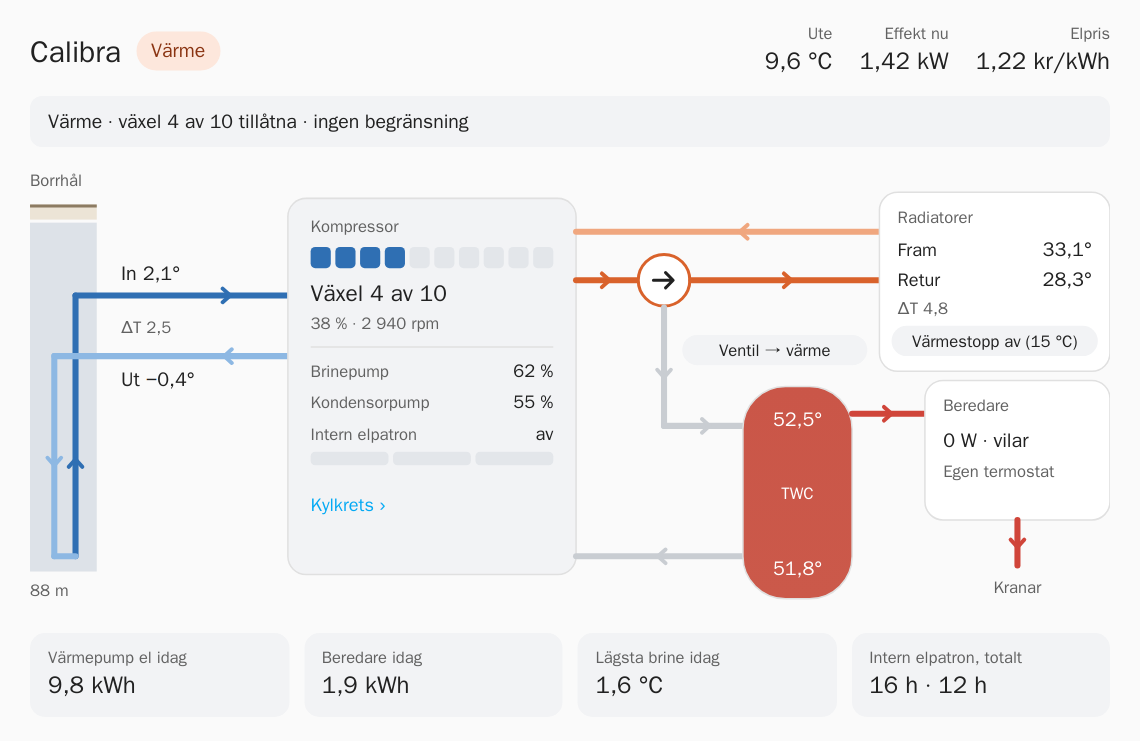
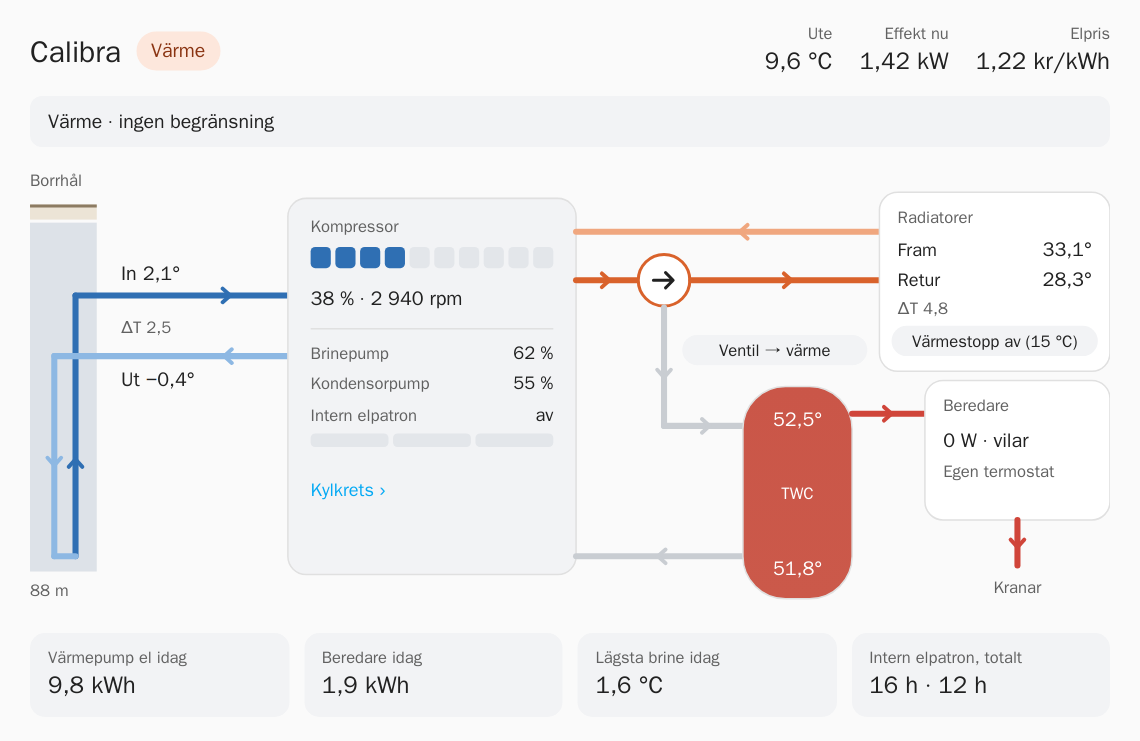
Drop the gear text; the bar shows it (0.2.1)

diff --git a/dist/calibra-card.js b/dist/calibra-card.js
@@ -9,7 +9,7 @@
  * MIT License
  */
 
-const CARD_VERSION = "0.2.0";
+const CARD_VERSION = "0.2.1";
 
 // Entity defaults: the thermiagenesis entity ids. Anything else (power meter, price, the
 // valve, the water heater) is site specific and only shown when configured.
@@ -59,18 +59,17 @@ const COLORS = {
 const T = {
   sv: {
     title: "Värmepump", borehole: "Borrhål", in: "In", out: "Ut", compressor: "Kompressor",
-    gearOf: (g, m) => `Växel ${g} av ${m}`, gearOfAllowed: (g, m) => `Växel ${g} av ${m} tillåtna`,
     stopped: "Står still", brinePump: "Brinepump", condPump: "Kondensorpump", immersion: "Intern elpatron", immersionShort: "Elpatron",
     off: "av", on: "på", step: (s) => `steg ${s}`, stepOf: (s, n) => `steg ${s} av ${n}`, circuit: "Kylkrets ›", radiators: "Radiatorer", supply: "Fram", ret: "Retur",
     valve: "Ventil →", toHeat: "värme", toTap: "varmvatten", heater: "Beredare", heaterSub: "Egen termostat",
     heaterIdle: "vilar", heaterOn: "värmer", taps: "Kranar", outdoor: "Ute", power: "Effekt nu", price: "Elpris",
-    heatStopOn: (t) => `Värmestopp på${t}`, heatStopOff: (t) => `Värmestopp av${t}`, limit: (t) => ` (${t})`, gearShort: (g, m) => `Växel ${g}/${m}`,
+    heatStopOn: (t) => `Värmestopp på${t}`, heatStopOff: (t) => `Värmestopp av${t}`, limit: (t) => ` (${t})`,
     pumpToday: "Värmepump el idag", heaterToday: "Beredare idag", brineMin: "Lägsta brine idag", immHours: "Intern elpatron, totalt",
     back: "‹ Tillbaka", hp: "Högtryck (kondensor)", lp: "Lågtryck (förångare)", bubble: "Bubbelpunkt", dew: "Daggpunkt",
     compHours: "Kompressor, drifttid", tapHours: "Varmvatten, drifttid", gearsHeat: "Tillåtna växlar, värme",
     gearsTap: "Tillåtna växlar, varmvatten", blocked: "Tillfälligt blockerad", yes: "Ja", no: "Nej",
     alarm: "Samlingslarm", noAlarm: "Inget", active: "Aktivt", phaseAlarm: "Fasdetektering", ok: "OK", fault: "Fel",
-    whyDemand: (d, g, m, lim) => `${d} · växel ${g} av ${m} tillåtna${lim ? "" : " · ingen begränsning"}`,
+    whyDemand: (d, lim) => `${d}${lim ? "" : " · ingen begränsning"}`,
     whyIdle: (i) => `Inget behov just nu${i}`, integral: (v) => ` · gradminuter ${v}`,
     whyHeatStop: (o, s) => `Värmestopp: ute ${o} är över gränsen ${s}. Radiatorerna får ingen värme, bara varmvatten laddas vid behov.`,
     whyBlocked: "Kompressorn är tillfälligt blockerad.", whyImmersion: "Intern elpatron har gått in.",
@@ -81,18 +80,17 @@ const T = {
   },
   en: {
     title: "Heat pump", borehole: "Borehole", in: "In", out: "Out", compressor: "Compressor",
-    gearOf: (g, m) => `Gear ${g} of ${m}`, gearOfAllowed: (g, m) => `Gear ${g} of ${m} allowed`,
     stopped: "Stopped", brinePump: "Brine pump", condPump: "Condenser pump", immersion: "Immersion heater", immersionShort: "Immersion",
     off: "off", on: "on", step: (s) => `step ${s}`, stepOf: (s, n) => `step ${s} of ${n}`, circuit: "Refrigerant ›", radiators: "Radiators", supply: "Supply", ret: "Return",
     valve: "Valve →", toHeat: "heating", toTap: "hot water", heater: "Water heater", heaterSub: "Own thermostat",
     heaterIdle: "idle", heaterOn: "heating", taps: "Taps", outdoor: "Outdoor", power: "Power", price: "Price",
-    heatStopOn: (t) => `Heating stop on${t}`, heatStopOff: (t) => `Heating stop off${t}`, limit: (t) => ` (${t})`, gearShort: (g, m) => `Gear ${g}/${m}`,
+    heatStopOn: (t) => `Heating stop on${t}`, heatStopOff: (t) => `Heating stop off${t}`, limit: (t) => ` (${t})`,
     pumpToday: "Heat pump today", heaterToday: "Water heater today", brineMin: "Lowest brine today", immHours: "Immersion heater, total",
     back: "‹ Back", hp: "High pressure (condenser)", lp: "Low pressure (evaporator)", bubble: "Bubble point", dew: "Dew point",
     compHours: "Compressor hours", tapHours: "Hot water hours", gearsHeat: "Allowed gears, heating",
     gearsTap: "Allowed gears, hot water", blocked: "Temporarily blocked", yes: "Yes", no: "No",
     alarm: "Sum alarm", noAlarm: "None", active: "Active", phaseAlarm: "Phase detection", ok: "OK", fault: "Fault",
-    whyDemand: (d, g, m, lim) => `${d} · gear ${g} of ${m} allowed${lim ? "" : " · no limit"}`,
+    whyDemand: (d, lim) => `${d}${lim ? "" : " · no limit"}`,
     whyIdle: (i) => `No demand right now${i}`, integral: (v) => ` · degree minutes ${v}`,
     whyHeatStop: (o, s) => `Heating stop: outdoor ${o} is above the limit ${s}. Only hot water is made when needed.`,
     whyBlocked: "The compressor is temporarily blocked.", whyImmersion: "The immersion heater is on.",
@@ -243,7 +241,7 @@ class CalibraCard extends HTMLElement {
     let why, tone = "neutral";
     if (alarm) { why = t.whyAlarm; tone = "alert"; }
     else if (heatStop && !running) { why = t.whyHeatStop(fmt(outdoor, 1, "°C", lang), fmt(stopT, 0, "°C", lang)); tone = "stop"; }
-    else if (running) why = t.whyDemand(demand, gear, maxAllowed, limited || notices.length);
+    else if (running) why = t.whyDemand(demand, limited || notices.length);
     else why = t.whyIdle(n("integral") !== null ? t.integral(fmt(n("integral"), 0, "", lang)) : "");
     const extra = [...notices];
     if (blocked) extra.push(t.whyBlocked);
@@ -276,9 +274,9 @@ class CalibraCard extends HTMLElement {
       brineIn: fmt(n("brine_in"), 1, "°", lang), brineOut: fmt(n("brine_out"), 1, "°", lang),
       brineDt: n("brine_in") !== null && n("brine_out") !== null ? fmt(n("brine_in") - n("brine_out"), 1, "", lang) : "–",
       brineOn, heatOn, hwOn, valveTap, segs, limited: limited || notices.length > 0,
-      gearShort: running ? t.gearShort(gear, maxAllowed) : t.stopped,
-      gearText: running ? (limited ? t.gearOfAllowed(gear, maxAllowed) : t.gearOf(gear, gears)) : t.stopped,
-      speed: `${fmt(n("compressor_pct"), 0, "%", lang)} · ${fmt(n("compressor_rpm"), 0, "rpm", lang)}`,
+      // The gear bar shows used and allowed gears; the text line only carries speed.
+      compText: running ? `${fmt(n("compressor_pct"), 0, "%", lang)} · ${fmt(n("compressor_rpm"), 0, "rpm", lang)}` : t.stopped,
+      compShort: running ? fmt(n("compressor_pct"), 0, "%", lang) : t.stopped,
       brinePump: fmt(n("brine_pump"), 0, "%", lang), condPump: fmt(n("condenser_pump"), 0, "%", lang),
       immersion: e.immersion ? this._immersionModel(immersion) : null,
       supply: heatOn || heatStop ? fmt(n("condenser_out"), 1, "°", lang) : fmt(n("condenser_out"), 1, "°", lang),
@@ -390,17 +388,16 @@ class CalibraCard extends HTMLElement {
     <rect x="170" y="56" width="190" height="248" rx="12" class="box hpbox"/>
     ${txt(185, 78, t.compressor, "lbl")}
     ${segs}
-    ${txt(185, 124, m.gearText, "val big full", e.gear)}${txt(185, 128, m.gearShort, "val big short", e.gear)}
-    ${txt(185, 142, m.speed, "lbl opt", e.compressor_pct)}
-    <line x1="185" y1="154" x2="345" y2="154" class="div opt"/>
-    ${hpRows.map(([l, v, ent], i) => `${txt(185, 174 + i * 20, l, "lbl opt")}${txt(345, 174 + i * 20, v, "sm opt", ent, "end")}`).join("")}
-    ${m.immersion ? `<g class="opt">${m.immersion.on ? `<rect x="179" y="201" width="172" height="38" rx="6" fill="var(--calibra-warn-bg, #fff4dc)"/>` : ""}
-      ${txt(185, 215, t.immersion, m.immersion.on ? "sm warn" : "lbl")}${txt(345, 215, m.immersion.text, m.immersion.on ? "sm warn strong" : "sm", e.immersion, "end")}
-      ${immBar(185, 223, 9)}</g>
+    ${txt(185, 126, m.compText, "val full", e.compressor_pct)}${txt(185, 130, m.compShort, "val big short", e.compressor_pct)}
+    <line x1="185" y1="142" x2="345" y2="142" class="div opt"/>
+    ${hpRows.map(([l, v, ent], i) => `${txt(185, 162 + i * 20, l, "lbl opt")}${txt(345, 162 + i * 20, v, "sm opt", ent, "end")}`).join("")}
+    ${m.immersion ? `<g class="opt">${m.immersion.on ? `<rect x="179" y="189" width="172" height="38" rx="6" fill="var(--calibra-warn-bg, #fff4dc)"/>` : ""}
+      ${txt(185, 203, t.immersion, m.immersion.on ? "sm warn" : "lbl")}${txt(345, 203, m.immersion.text, m.immersion.on ? "sm warn strong" : "sm", e.immersion, "end")}
+      ${immBar(185, 211, 9)}</g>
     <g class="short imm-compact">${m.immersion.on ? `<rect x="179" y="162" width="172" height="46" rx="6" fill="var(--calibra-warn-bg, #fff4dc)"/>` : ""}
       ${txt(185, 183, t.immersionShort, m.immersion.on ? "lbl warn" : "lbl")}${txt(345, 183, m.immersion.short, m.immersion.on ? "sm warn strong" : "sm", e.immersion, "end")}
       ${immBar(185, 192, 10)}</g>` : ""}
-    ${txt(185, 262, t.circuit, "link")}
+    ${txt(185, 252, t.circuit, "link")}
   </g>
 
   ${pipe(360, 78, 560, 78, col.heatRet)}

diff --git a/test/card.test.js b/test/card.test.js
@@ -67,7 +67,9 @@ test("heating: radiator branch live, valve points right, demand translated", () 
   assert.equal(m.heatOn, true);
   assert.equal(m.hwOn, false);
   assert.equal(m.chip.text, "Värme");
-  assert.equal(m.gearText, "Växel 4 av 10");
+  assert.match(m.compText, /^38 % · 2.940 rpm$/);
+  assert.equal(m.why, "Värme · ingen begränsning");
+  assert.ok(!html(c).includes("Växel"));
   assert.match(m.why, /ingen begränsning/);
   assert.match(html(c), /rotate\(0\)/);
   assert.match(html(c), /1,42 kW/);
@@ -86,7 +88,7 @@ test("hot water with the sauna guard: hot water branch, limited gears hatched, n
   const m = c._model();
   assert.equal(m.hwOn, true);
   assert.equal(m.heatOn, false);
-  assert.equal(m.gearText, "Växel 3 av 3 tillåtna");
+  assert.ok(!m.why.includes("växel"));
   assert.deepEqual(m.segs.slice(0, 4), ["on-limited", "on-limited", "on-limited", "blocked"]);
   assert.equal(m.tone, "warn");
   assert.match(m.why, /Bastuvakten begränsar/);
@@ -116,7 +118,7 @@ test("idle shows degree minutes; pipes are grey", () => {
     [`sensor.${P}_brine_circulation_pump_speed`]: "0",
   });
   const m = c._model();
-  assert.equal(m.gearText, "Står still");
+  assert.equal(m.compText, "Står still");
   assert.match(m.why, /gradminuter −150|gradminuter -150/);
   assert.equal(m.brineOn, false);
   assert.ok(!html(c).includes('stroke="#2f6fb3"'));
@@ -163,7 +165,7 @@ test("clicking a value opens more-info for its entity", () => {
 
 test("English labels", () => {
   const m = card({}, {}, "en")._model();
-  assert.equal(m.gearText, "Gear 4 of 10");
+  assert.equal(m.why, "Heat · no limit");
 });
 
 test("only relevant state changes re-render", () => {

diff --git a/CHANGELOG.md b/CHANGELOG.md
@@ -1,5 +1,9 @@
 # Changelog
 
+## 0.2.1 — 2026-10-24
+
+- Removed the "Växel X av Y (tillåtna)" text from the compressor box and the explanation line; the gear bar already shows used and allowed gears. The compressor speed takes its place, and the box is tighter.
+
 ## 0.2.0 — 2026-10-24
 
 - The internal immersion heater gets a step bar like the compressor's gears, in both layouts: "steg 1 av 3".
